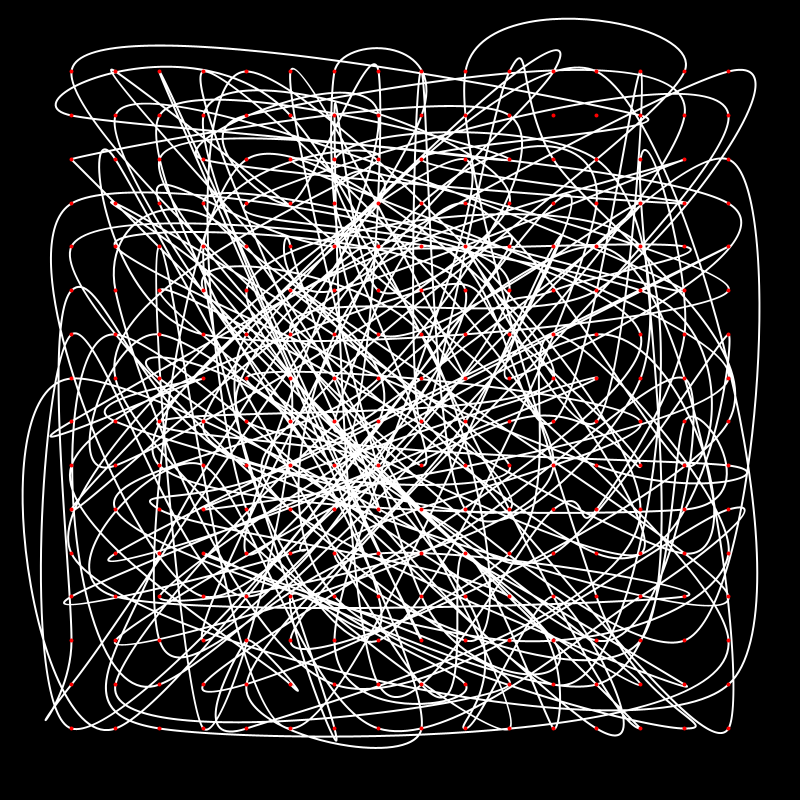
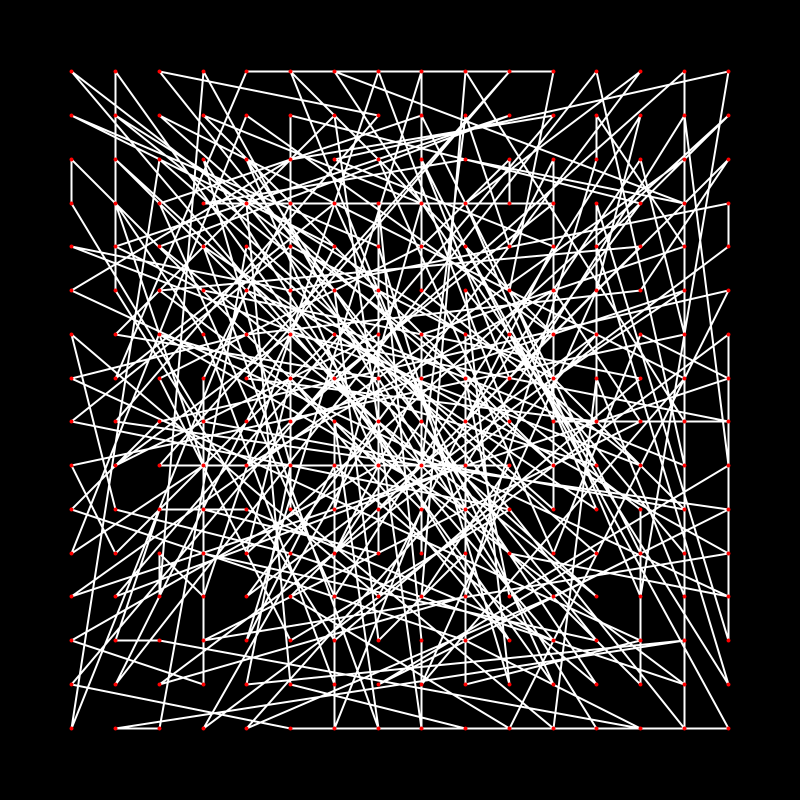
19

diff --git a/2026/sketch_2026_01_19/sketch_2026_01_19.py b/2026/sketch_2026_01_19/sketch_2026_01_19.py
@@ -21,14 +21,13 @@ def setup():
     pts[:] = py5.random_permutation(pts)
     p = shapely.Polygon(pts)
   
-
 def draw():
     py5.background(0)
     py5.stroke(255)
     py5.stroke_weight(2)
     with py5.begin_closed_shape():
-        py5.curve_vertices(pts)
-        #py5.vertices(pts)
+        #py5.curve_vertices(pts)
+        py5.vertices(pts)
     py5.stroke(255, 0, 0)
     py5.stroke_weight(4)
     py5.points(pts)
